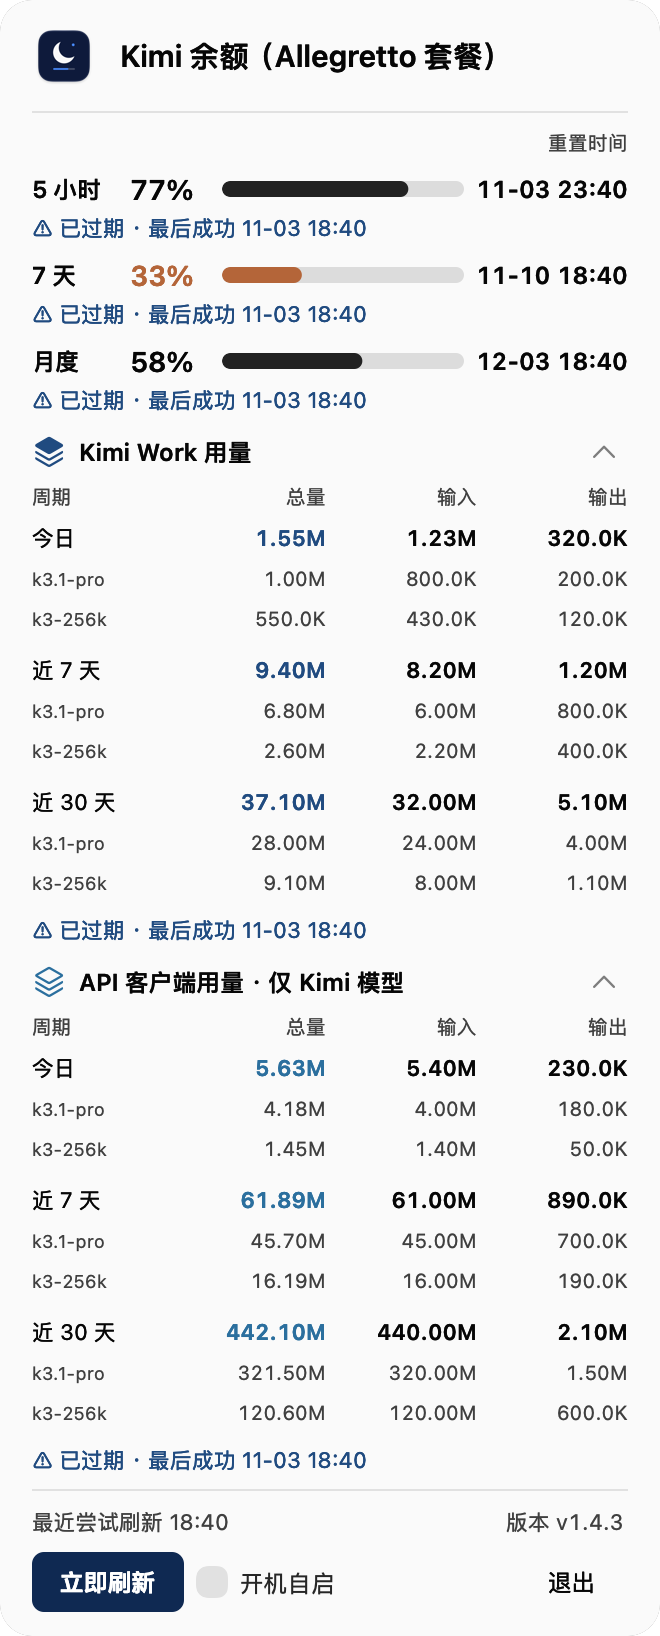
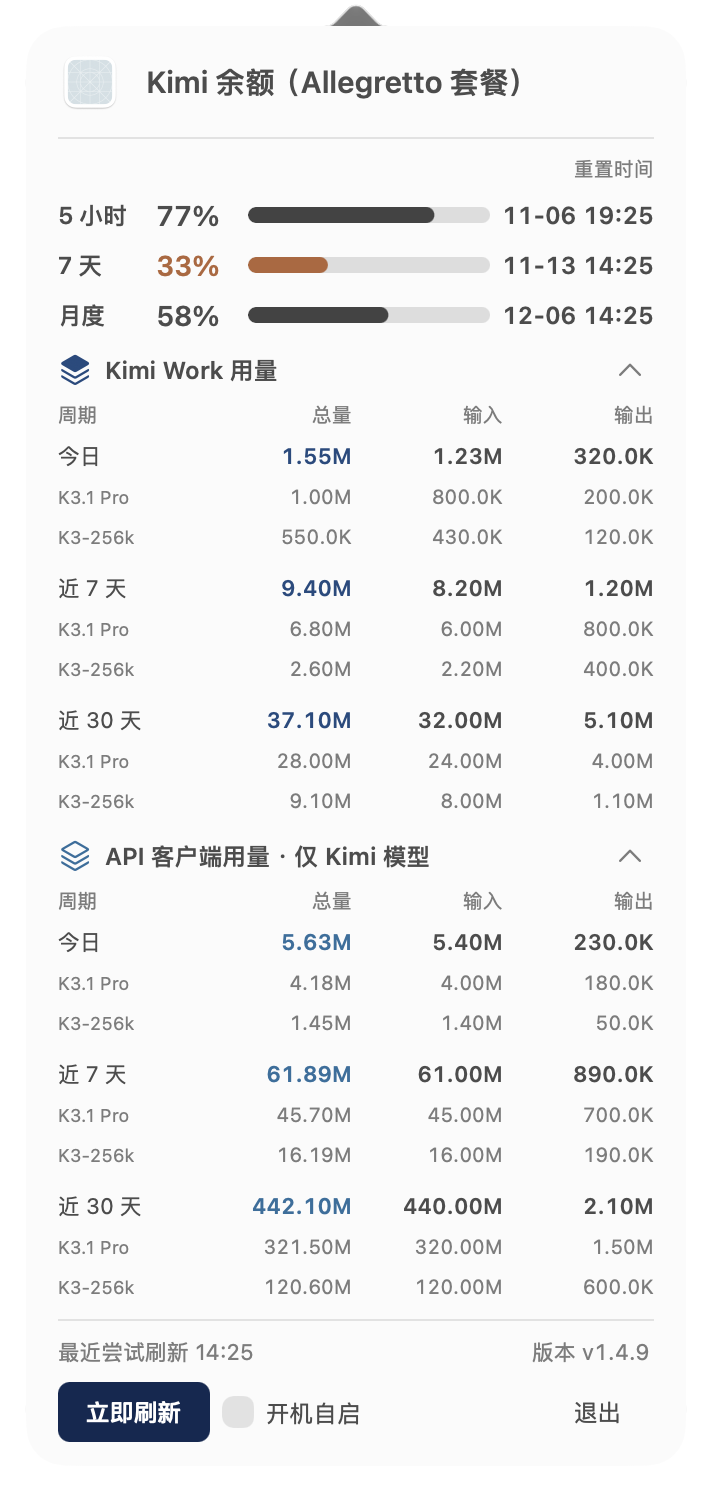
docs: 更新产品截图和功能说明

diff --git a/README.md b/README.md
@@ -9,7 +9,7 @@
 
 **本地统计会话用量，不上传会话记录。**
 
-<img src="docs/images/kimi-usage.png" alt="KimiUsage 面板：Kimi 额度、重置时间和 Token 用量" width="360">
+<img src="docs/images/kimi-usage.png" alt="KimiUsage 面板：Kimi 额度、重置时间和 Token 用量" width="360"> <img src="docs/images/kimi-usage-model-breakdown.png" alt="展开周期后的各模型 Token 用量明细" width="360">
 
 *界面展示的是示例数据。*
 
@@ -18,9 +18,10 @@
 - **随时看额度**：菜单栏显示 5 小时和 7 天剩余额度；点开可查看月度额度。
 - **知道何时恢复**：查看各额度的重置时间，方便安排使用。
 - **了解使用情况**：查看 Kimi Work 和 API 客户端今天、近 7 天及近 30 天的 Token 用量；点击任一周期整行可展开或收起各模型的总量、输入和输出，刷新后保留展开状态。
+- **随时刷新和启动**：额度自动刷新，也可以手动刷新所有数据；支持开机自启。
 - **及时发现异常**：数据更新失败或过期时，面板会给出提示。
 
-Token 统计来自本机可读取的会话记录，覆盖 Kimi Work、Kimi Code CLI、ZCode、Proma、Claude Code、Hermes Agent 等支持的来源；API 客户端部分只统计识别到的 Kimi / Moonshot 用量，不能视为所有设备或所有模型的总用量。
+Token 统计来自本机可读取的会话记录，覆盖 Kimi Work、Kimi Code CLI、ZCode、Proma、Claude Code、Hermes Agent 等支持的来源；API 客户端部分只统计识别到的 Kimi / Moonshot 用量，不能视为所有设备或所有模型的总用量。近 7 天和近 30 天均包含今天。
 
 ## 安装
 
@@ -32,7 +33,7 @@ Token 统计来自本机可读取的会话记录，覆盖 Kimi Work、Kimi Code 
 
 ## 更新
 
-有新版本时，面板会提示更新。点击后可以在应用内查看下载和安装进度，完成后自动重启。也可点击面板底部的版本号手动检查。
+有新版本时，面板会提示更新。点击后可以在应用内查看下载和安装进度；关闭面板后更新会继续，再次打开可查看进度，完成后自动重启。也可点击面板底部的版本号手动检查。
 
 从旧版升级到首次支持应用内进度的版本时，仍会打开一次终端窗口；此后更新使用新界面。
 
